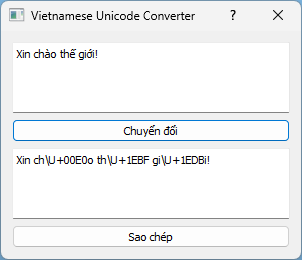
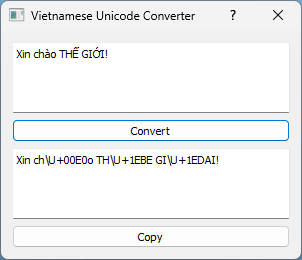
refactor

diff --git a/gui.py b/gui.py
@@ -1,17 +1,10 @@
-# Import
-import os
 import sys
-
-# PyQt5
-from PyQt5.QtWidgets import *
-from PyQt5.QtCore import *
 from PyQt5.QtGui import *
+from PyQt5.QtWidgets import *
 
 import main
 
 
-
-# Class ConverterGui
 class ConverterGui(QDialog):
 
     def __init__(self):
@@ -24,77 +17,50 @@ class ConverterGui(QDialog):
         self.margin = 20
 
         # Parameters
+        self.output_string = ''
         self.clipboard = QGuiApplication.clipboard()
 
         # Create layout
         layout = QGridLayout()
 
         # Create and set elements
-        ## Input string
         self.text_input = QTextEdit()
-        self.text_input.setPlaceholderText('Nhập chuỗi')
-        ## Button convert
-        self.button_convert = QPushButton('Chuyển đổi')
-        ## Output string
+        self.text_input.setPlaceholderText('Enter text here...')
+        self.button_convert = QPushButton('Convert')
         self.text_output = QTextEdit()
-        ## Button copy to clipboard
-        self.button_copy = QPushButton('Sao chép')
+        self.button_copy = QPushButton('Copy')
 
-        # Prepare elements
-            # Set output_string to read-only
         self.text_output.setReadOnly(True)
 
-        # Add elements to layout
         layout.addWidget(self.text_input, 0, 0)
         layout.addWidget(self.button_convert, 1, 0)
         layout.addWidget(self.text_output, 2, 0)
         layout.addWidget(self.button_copy, 3, 0)
 
-        # Set layout
         self.setLayout(layout)
 
-        # Initialize UI
         self.init_ui()
 
-        # Handle events
+        # Add event handlers
         self.button_convert.clicked.connect(self.convert)
         self.button_copy.clicked.connect(self.copy_clipboard)
-        self.button_copy.clicked.connect(self.set_copied_message)
+        self.button_copy.clicked.connect(self.show_copy_message)
 
-
-    # Front-end functions
     def init_ui(self):
-        # Set window title
         self.setWindowTitle('Vietnamese Unicode Converter')
-
-        # Set window size
-        self.setGeometry(50, 50, self.width, self.height)
-
-        # Set window at center
-        self.center()
-
-        # Remove default focus
-        self.setFocus()
-
-        # Show window
-        self.show()
-
+        self.setGeometry(50, 50, self.width, self.height)  # Set window size
+        self.center()  # Set window at center
+        self.setFocus()  # Remove default focus
+        self.show()  # Show window
 
     def center(self):
-        # geometry of the main window
-        qr = self.frameGeometry()
-
-        # center point of screen
-        cp = QDesktopWidget().availableGeometry().center()
-
-        # move rectangle's center point to screen's center point
-        qr.moveCenter(cp)
+        qr = self.frameGeometry()  # geometry of the main window
+        screen_center_point = QDesktopWidget().availableGeometry().center()
+        qr.moveCenter(screen_center_point)
 
         # top left of rectangle becomes top left of window centering it
         self.move(qr.topLeft())
 
-
-    # Back-end functions
     def convert(self):
         input_string = self.text_input.toPlainText()
         self.output_string = main.convert(input_string)
@@ -103,8 +69,8 @@ class ConverterGui(QDialog):
     def copy_clipboard(self):
         if self.output_string:
             self.clipboard.setText(self.output_string)
-    
-    def set_copied_message(self):
+
+    def show_copy_message(self):
         msg_box = QMessageBox()
         msg_box.information(self, 'Copy', 'Copy done!')
 

diff --git a/README.md b/README.md
@@ -1,7 +1,9 @@
 # Vietnamese Unicode Converter
 This is a tool used to convert Vietnamese characters to \\U+xxxx patterns. Only works with composed Unicode for now.
 
-![Demo](demo.png)
+<p align="center">
+  <img src="demo.png" alt="Demo image">
+</p>
 
 ## Prerequisites
 Microsoft Visual C++ 14.0 or greater
